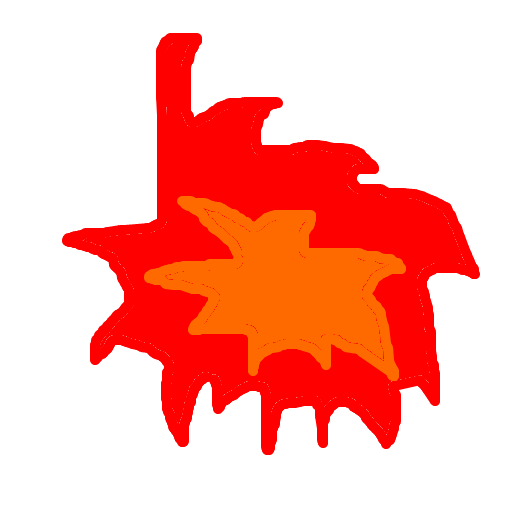
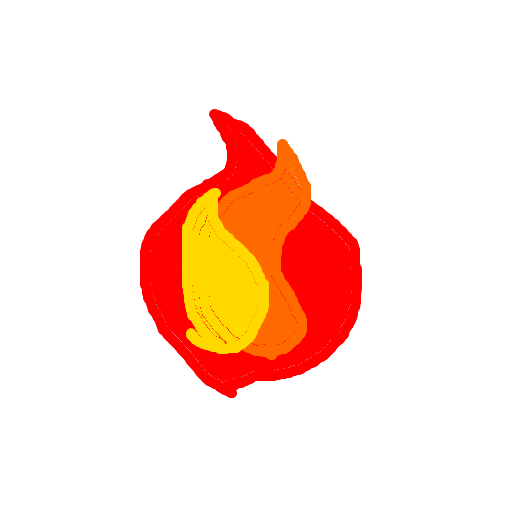
particle shader - something wrong...

Changed region(s): [[0.125, 0.0625, 0.9375, 0.9062]]

diff --git a/Engine/Engine/particleShaderClass.cpp b/Engine/Engine/particleShaderClass.cpp
@@ -8,6 +8,7 @@ ParticleShaderClass::ParticleShaderClass()
 	m_layout = 0;
 	m_matrixBuffer = 0;
 	m_timeBuffer = 0;
+	m_cameraBuffer = 0;
 	m_sampleState = 0;
 }
 
@@ -36,10 +37,12 @@ void ParticleShaderClass::Shutdown()
 }
 
 bool ParticleShaderClass::Render(ID3D11DeviceContext* devCon, int indexCount, D3DXMATRIX worldMatrix, D3DXMATRIX viewMatrix,
-	D3DXMATRIX projectionMatrix, ID3D11ShaderResourceView** texture, float time, float frequency, float phase)
+	D3DXMATRIX projectionMatrix, D3DXMATRIX billboardMatrix, D3DXVECTOR3 camPosition, D3DXVECTOR3 camAt, D3DXVECTOR3 camUp,
+	ID3D11ShaderResourceView** texture, float time, float frequency, float phase, float life)
 {
 	bool result;
-	result = SetShaderParameters(devCon, worldMatrix, viewMatrix, projectionMatrix, texture, time, frequency, phase);
+	result = SetShaderParameters(devCon, worldMatrix, viewMatrix, projectionMatrix, billboardMatrix, camPosition, camAt, camUp,
+		texture, time, frequency, phase, life);
 	if(!result)
 	{
 		return false;
@@ -77,6 +80,11 @@ void ParticleShaderClass::ShutdownShader()
 		m_timeBuffer->Release();
 		m_timeBuffer = 0;
 	}
+	if(m_cameraBuffer)
+	{
+		m_cameraBuffer->Release();
+		m_cameraBuffer = 0;
+	}
 	if(m_sampleState)
 	{
 		m_sampleState->Release();
@@ -95,6 +103,7 @@ bool ParticleShaderClass::InitializeShader(ID3D11Device* device, HWND hwnd, WCHA
     D3D11_SAMPLER_DESC samplerDesc;
 	D3D11_BUFFER_DESC matrixBufferDesc;
 	D3D11_BUFFER_DESC timeBufferDesc;
+	D3D11_BUFFER_DESC cameraBufferDesc;
 
 	// Initialize the pointers this function will use to null.
 	errorMessage = 0;
@@ -241,6 +250,20 @@ bool ParticleShaderClass::InitializeShader(ID3D11Device* device, HWND hwnd, WCHA
 		return false;
 	}
 
+	cameraBufferDesc.Usage = D3D11_USAGE_DYNAMIC;
+	cameraBufferDesc.ByteWidth = sizeof(CameraBufferType);
+    cameraBufferDesc.BindFlags = D3D11_BIND_CONSTANT_BUFFER;
+    cameraBufferDesc.CPUAccessFlags = D3D11_CPU_ACCESS_WRITE;
+    cameraBufferDesc.MiscFlags = 0;
+	cameraBufferDesc.StructureByteStride = 0;
+
+	// Create the constant buffer pointer so we can access the vertex shader constant buffer from within this class.
+	result = device->CreateBuffer(&cameraBufferDesc, NULL, &m_cameraBuffer);
+	if(FAILED(result))
+	{
+		return false;
+	}
+
 	return true;
 }
 
@@ -292,18 +315,21 @@ void ParticleShaderClass::OutputShaderErrorMessage(ID3D10Blob* errorMessage, HWN
 }
 
 bool ParticleShaderClass::SetShaderParameters(ID3D11DeviceContext* devCon, D3DXMATRIX worldMatrix, D3DXMATRIX viewMatrix, 
-	D3DXMATRIX projectionMatrix, ID3D11ShaderResourceView** texture, float time, float frequency, float phase)
+	D3DXMATRIX projectionMatrix, D3DXMATRIX billboardMatrix, D3DXVECTOR3 camPosition, D3DXVECTOR3 camAt, D3DXVECTOR3 camUp,
+	ID3D11ShaderResourceView** texture, float time, float frequency, float phase, float life)
 {
 	HRESULT result;
     D3D11_MAPPED_SUBRESOURCE mappedResource;
 	unsigned int bufferNumber;
 	MatrixBufferType* dataPtr;
 	TimeBufferType* timePtr;
+	CameraBufferType* camPtr;
 
 	// Transpose the matrices to prepare them for the shader.
 	D3DXMatrixTranspose(&worldMatrix, &worldMatrix);
 	D3DXMatrixTranspose(&viewMatrix, &viewMatrix);
 	D3DXMatrixTranspose(&projectionMatrix, &projectionMatrix);
+	D3DXMatrixTranspose(&billboardMatrix, &billboardMatrix);
 
 	// Lock the constant buffer so it can be written to.
 	result = devCon->Map(m_matrixBuffer, 0, D3D11_MAP_WRITE_DISCARD, 0, &mappedResource);
@@ -319,6 +345,7 @@ bool ParticleShaderClass::SetShaderParameters(ID3D11DeviceContext* devCon, D3DXM
 	dataPtr->world = worldMatrix;
 	dataPtr->view = viewMatrix;
 	dataPtr->projection = projectionMatrix;
+	dataPtr->billboard = billboardMatrix;
 
 	// Unlock the constant buffer.
     devCon->Unmap(m_matrixBuffer, 0);
@@ -344,7 +371,7 @@ bool ParticleShaderClass::SetShaderParameters(ID3D11DeviceContext* devCon, D3DXM
 	timePtr->time = time;
 	timePtr->frequency = frequency;
 	timePtr->phase = phase;
-	timePtr->time_padding = 0.0f;
+	timePtr->life = life;
 
 	// Unlock the constant buffer.
     devCon->Unmap(m_timeBuffer, 0);
@@ -355,6 +382,34 @@ bool ParticleShaderClass::SetShaderParameters(ID3D11DeviceContext* devCon, D3DXM
 	// Now set the constant buffer in the vertex shader with the updated values.
     devCon->VSSetConstantBuffers(bufferNumber, 1, &m_timeBuffer);
 	
+	////////////// CAMERA BUFFER
+	// Lock the constant buffer so it can be written to.
+	result = devCon->Map(m_cameraBuffer, 0, D3D11_MAP_WRITE_DISCARD, 0, &mappedResource);
+	if(FAILED(result))
+	{
+		return false;
+	}
+
+	// Get a pointer to the data in the constant buffer.
+	camPtr = (CameraBufferType*)mappedResource.pData;
+
+	// Copy the matrices into the constant buffer.
+	camPtr->position = camPosition;
+	camPtr->at = camAt;
+	camPtr->up = camUp;
+	camPtr->padding = D3DXVECTOR3(0,0,0);
+
+	// Unlock the constant buffer.
+    devCon->Unmap(m_cameraBuffer, 0);
+
+	// Set the position of the constant buffer in the vertex shader.
+	bufferNumber = 2;
+
+	// Now set the constant buffer in the vertex shader with the updated values.
+    devCon->VSSetConstantBuffers(bufferNumber, 1, &m_cameraBuffer);
+
+	////////////// PIXEL SHADER
+
 	// Set shader texture resource in the pixel shader.
 	devCon->PSSetShaderResources(0, 1, texture);
 

diff --git a/Engine/Engine/graphicsclass.cpp b/Engine/Engine/graphicsclass.cpp
@@ -12,6 +12,7 @@ GraphicsClass::GraphicsClass()
 	m_Model2 = 0;
 	m_Sphere = 0;
 	m_LightShader = 0;
+	m_alphaFadeShader = 0;
 	m_Light = 0;
 	m_positions = 0;
 }
@@ -65,7 +66,7 @@ bool GraphicsClass::Initialize(int screenWidth, int screenHeight, HWND hwnd)
 	}
 
 	// Initialize the model object.
-	result = m_Model->Initialize(m_D3D->GetDevice(), 50, 0, 20, 20, 500, L"../data/grass.png", L"../data/floor2_ddn.jpg");
+	result = m_Model->Initialize(m_D3D->GetDevice(), 50, 0, 20, 20, 20, L"../data/grass.png", L"../data/floor2_ddn.jpg");
 	//result = m_Model->Initialize(m_D3D->GetDevice(), 200, 0, 4, 1, 500, L"../data/grass.png", L"../data/sphere.png");
 	if(!result)
 	{
@@ -83,7 +84,7 @@ bool GraphicsClass::Initialize(int screenWidth, int screenHeight, HWND hwnd)
 
 	// Initialize the model object.
 	//result = m_Model2->Initialize(m_D3D->GetDevice(), 10, 25, 20, 1, 2, L"../data/standing.png");
-	result = m_Model2->Initialize(m_D3D->GetDevice(), "../data/bill.txt", L"../data/cloud3.png", L"../data/SnakeScale.jpg");
+	result = m_Model2->Initialize(m_D3D->GetDevice(), "../data/bill.txt", L"../data/fire.png", L"../data/SnakeScale.jpg");
 	//result = m_Model2->Initialize(m_D3D->GetDevice(), .3, .7, 20, 1, 1, L"../data/BTS.png", L"../data/BTSn.png");
 	if(!result)
 	{
@@ -449,11 +450,11 @@ bool GraphicsClass::Render(float time)
 		int j = 99 - zPos[i].i;
 		//int j = i;
 
-		m_Camera->GetBillboardAlign(cameraRot, m_positions[j]);
+		m_Camera->GetBillboardAlign(cameraRot);
 		//m_D3D->GetWorldMatrix(cameraRot);
 
 		m_D3D->GetWorldMatrix(worldMatrix);
-		D3DXMatrixMultiply(&worldMatrix, &worldMatrix, &cameraRot);
+		//D3DXMatrixMultiply(&worldMatrix, &worldMatrix, &cameraRot);
 		D3DXMatrixTranslation(&temp, m_positions[j].x, 0, m_positions[j].z);
 		D3DXMatrixMultiply(&worldMatrix, &worldMatrix, &temp);
 		
@@ -461,7 +462,7 @@ bool GraphicsClass::Render(float time)
 		m_Model2->Render(m_D3D->GetDeviceContext(), worldMatrix);
 		
 		result = m_ParticleShader->Render(m_D3D->GetDeviceContext(), m_Model2->GetIndexCount(), worldMatrix, viewMatrix, projectionMatrix, 
-			m_Model2->GetTexture(), time, 0.001f, m_phases[j]);
+			cameraRot, m_Camera->GetPosition(), m_Camera->GetDirection(), m_Camera->GetUp(), m_Model2->GetTexture(), time, 0.001f, m_phases[j], 3.0);
 		if(!result)
 		{
 			return false;

diff --git a/Engine/Engine/particleshaderclass.h b/Engine/Engine/particleshaderclass.h
@@ -20,13 +20,23 @@ class ParticleShaderClass
 		D3DXMATRIX world;
 		D3DXMATRIX view;
 		D3DXMATRIX projection;
+		D3DXMATRIX billboard;
 	};
+
+	struct CameraBufferType
+	{
+		D3DXVECTOR3 position;
+		D3DXVECTOR3 at;
+		D3DXVECTOR3 up;
+		D3DXVECTOR3 padding;
+	};
+
 	struct TimeBufferType
 	{
 		float time;
 		float frequency;
 		float phase;
-		float time_padding;
+		float life;
 	};
 public:
 	ParticleShaderClass();
@@ -35,15 +45,16 @@ public:
 
 	bool Initialize(ID3D11Device* device, HWND);
 	void Shutdown();
-	bool Render(ID3D11DeviceContext* devCon, int indexCount, D3DXMATRIX worldMatrix, D3DXMATRIX viewMatrix, D3DXMATRIX projectionMatrix, ID3D11ShaderResourceView** texture,
-		float time, float frequency, float phase);
+	bool Render(ID3D11DeviceContext* devCon, int indexCount, D3DXMATRIX worldMatrix, D3DXMATRIX viewMatrix, D3DXMATRIX projectionMatrix,
+		D3DXMATRIX billboard, D3DXVECTOR3 camPosition, D3DXVECTOR3 camAt, D3DXVECTOR3 camUp, ID3D11ShaderResourceView** texture,
+		float time, float frequency, float phase, float life);
 
 private:
 	bool InitializeShader(ID3D11Device*, HWND, WCHAR*, WCHAR*);
 	void ShutdownShader();
 	void OutputShaderErrorMessage(ID3D10Blob*, HWND, WCHAR*);
-	bool SetShaderParameters(ID3D11DeviceContext* devCon, D3DXMATRIX worldMatrix, D3DXMATRIX projectionMatrix, D3DXMATRIX viewMatrix, ID3D11ShaderResourceView** texture,
-		float time, float frequency, float phase);
+	bool SetShaderParameters(ID3D11DeviceContext* devCon, D3DXMATRIX worldMatrix, D3DXMATRIX projectionMatrix, D3DXMATRIX viewMatrix,
+		D3DXMATRIX billboard, D3DXVECTOR3 camPosition, D3DXVECTOR3 camAt, D3DXVECTOR3 camUp, ID3D11ShaderResourceView** texture, float time, float frequency, float phase, float life);
 	void RenderShader(ID3D11DeviceContext* devCon, int indexCount);
 
 private:
@@ -53,6 +64,7 @@ private:
 	ID3D11SamplerState* m_sampleState;
 	ID3D11Buffer* m_matrixBuffer;
 	ID3D11Buffer* m_timeBuffer;
+	ID3D11Buffer* m_cameraBuffer;
 };
 
 #endif

diff --git a/Engine/Engine/cameraclass.cpp b/Engine/Engine/cameraclass.cpp
@@ -181,24 +181,20 @@ void CameraClass::Frame(int xMouse, int yMouse, bool w, bool a, bool s, bool d)
 	m_position += step * at;
 }
 
-void CameraClass::GetBillboardAlign(D3DXMATRIX& out, D3DXVECTOR3& pos)
+void CameraClass::GetBillboardAlign(D3DXMATRIX& out)
 {
-	D3DXVECTOR3 at, right;
-	float mag;
+	D3DXVECTOR3 at = m_direction, right;
 
-	//at = m_position - pos;
-	at = -m_direction;
-	mag = sqrtf(at.x*at.x + at.y*at.y + at.z*at.z);
-	at /= -mag;
+	D3DXVec3Normalize(&at, &at);
 
-	right.x = -(at.y*m_up.z - at.z*m_up.y);
-	right.y = -(at.z*m_up.x - at.x*m_up.z);
-	right.z = -(at.x*m_up.y - at.y*m_up.x);
+	D3DXVec3Cross(&right, &m_up, &at);
 
-	mag = sqrtf(right.x*right.x + right.y*right.y + right.z*right.z);
-	right /= mag;
-
-	out = D3DXMATRIX(right.x, right.y, right.z, 0, m_up.x, m_up.y, m_up.z, 0, at.x, at.y, at.z, 0, 0, 0, 0, 1);
+	D3DXVec3Normalize(&right, &right);
+	
+	out = D3DXMATRIX(right.x, right.y, right.z, 0,
+					 m_up.x , m_up.y , m_up.z , 0,
+					 at.x   , at.y   , at.z   , 0,
+					 0      , 0      , 0      , 1);
 }
 
 void CameraClass::GetBillboardXZ(D3DXMATRIX& out, D3DXVECTOR3& pos)

diff --git a/Engine/Engine/cameraclass.h b/Engine/Engine/cameraclass.h
@@ -32,7 +32,7 @@ public:
 	D3DXVECTOR3 GetRight();
 	D3DXVECTOR3 GetUp();
 	
-	void GetBillboardAlign(D3DXMATRIX& out, D3DXVECTOR3& pos);
+	void GetBillboardAlign(D3DXMATRIX& out);
 	void GetBillboardXZ(D3DXMATRIX& out, D3DXVECTOR3& pos);
 
 	void Frame(int, int, bool, bool, bool, bool);
